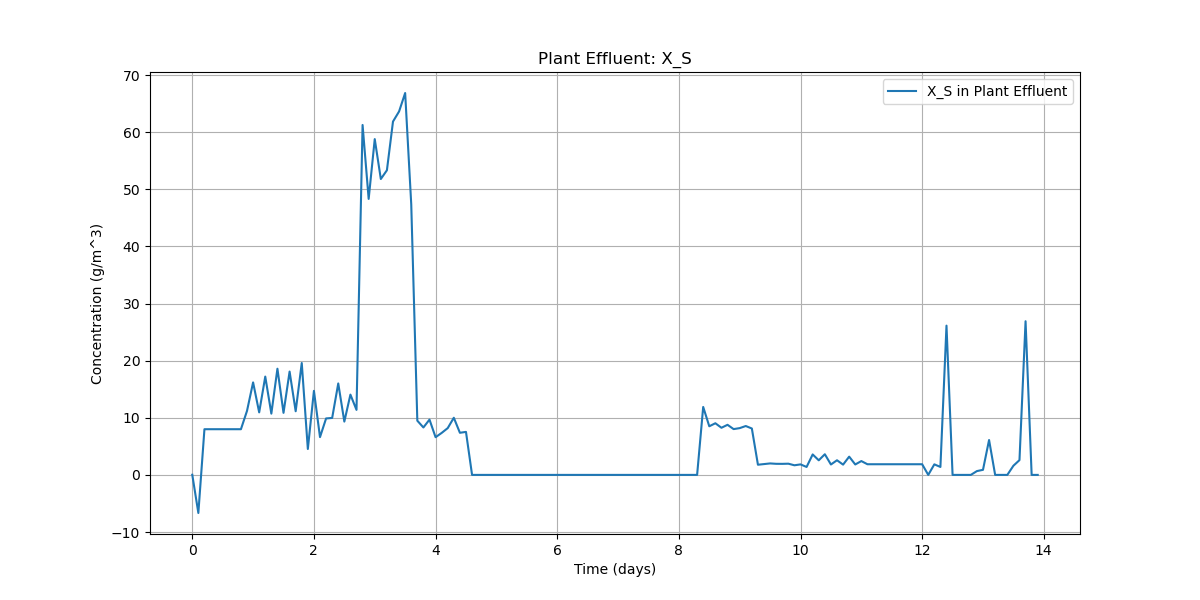
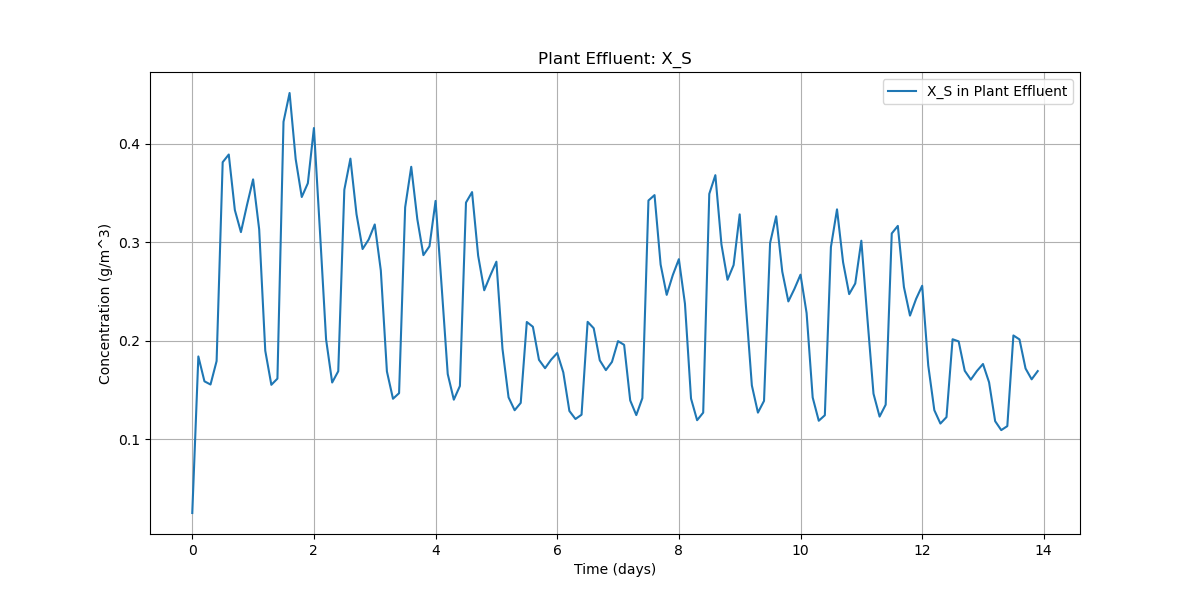
changed the solver to bdf to handle stiffness and fixed some bugs

diff --git a/clarifier_model.py b/clarifier_model.py
@@ -22,21 +22,23 @@ def vesilind_settling_velocity(X, settling_params):
     v_s = v0 * np.exp(-Kv * X_safe)
     return v_s
 
-def takacs_settling_velocity(X, settling_params):
-    """
-    Takács double-exponential with non-settleable fraction f_ns (BSM1, p.9).
-    Uses (X_eff = (1 - f_ns)*X) in the hindered/flocculant terms.
-    """
-    v0  = settling_params['v0']   # m/d  (Vesilind max term used in double exp)
-    v0p = settling_params['v0p']  # m/d  (additional max term)
-    r_h = settling_params['r_h']  # m^3/g (hindered)
-    r_p = settling_params['r_p']  # m^3/g (flocculant)
-    fns = settling_params['f_ns'] # dimensionless
+def takacs_settling_velocity(X, settling_params, X_in_total):
+    v0  = settling_params['v0']    # 474.0 (m/d)
+    v0p = settling_params['v0p']   # 250.0 (m/d)
+    r_h = settling_params['r_h']   # 5.76e-4 (m^3/g)
+    r_p = settling_params['r_p']   # 2.86e-3 (m^3/g)
+    fns = settling_params['f_ns']  # 0.00228 (-)
+    X_f = X_in_total   # <-- set this each call from your clarifier feed TSS
 
-    X = np.maximum(0.0, np.asarray(X, float)) # type: ignore
-    X_eff = (1.0 - fns) * X
-    # Commonly used form consistent with BSM1 data: vs(X) = v0 * exp(-r_h * X_eff) + v0p * exp(-r_p * X_eff)
-    return v0 * np.exp(-r_h * X_eff) + v0p * np.exp(-r_p * X_eff)
+    X    = np.maximum(0.0, np.asarray(X, float))
+    Xmin = fns * float(X_f)
+    Xs   = X - Xmin                  # X* in the docs
+
+    v = v0 * (np.exp(-r_h * Xs) - np.exp(-r_p * Xs))
+    v = np.minimum(v0p, v)           # cap at v0'
+    v_s = np.maximum(0.0, v)        # enforce non-negative
+    return v_s
+
 
 def takacs_clarifier_model(X_layers, X_in_total, Q_in, clarifier_params, settling_params):
     """
@@ -70,11 +72,11 @@ def takacs_clarifier_model(X_layers, X_in_total, Q_in, clarifier_params, settlin
 
     # --- States and settling velocities ---
     X = np.maximum(0.0, np.asarray(X_layers, dtype=float)) # type: ignore
-    model = settling_params.get('velocity_model', 'takacs').lower()
+    model = settling_params.get('velocity_model')
     if model == 'vesilind':
         vs = vesilind_settling_velocity(X, settling_params)
     else:
-        vs = takacs_settling_velocity(X, settling_params)
+        vs = takacs_settling_velocity(X, settling_params, X_in_total)
 
     # --- Gravitational flux at interfaces (j = 1..N_layers-1) ---
     # Interface j sits between upper layer (j-1) and lower layer (j).
@@ -85,14 +87,13 @@ def takacs_clarifier_model(X_layers, X_in_total, Q_in, clarifier_params, settlin
         upper, lower = j - 1, j
         if j <= feed_layer:
             # Clarification flux with threshold X_t (BSM1 definition)
-            J_down = vs[lower] * X[lower]
             if X[lower] <= X_t:
-                Jg[j] = J_down
+                Jg[j] = vs[upper] * X[upper]
             else:
-                Jg[j] = min(J_down, vs[upper] * X[upper])
+                Jg[j] = min(vs[lower] * X[lower], vs[upper] * X[upper])
         else:
             # Thickening: limiting settling flux (min supply/capacity)
-            Jg[j] = min(vs[upper] * X[upper], vs[lower] * X[lower])
+            Jg[j] = min(vs[lower] * X[lower], vs[upper] * X[upper])
 
     # --- Layer-wise mass balances (bulk advection + gravitational flux divergence) ---
     V_layer = A * h
@@ -107,8 +108,8 @@ def takacs_clarifier_model(X_layers, X_in_total, Q_in, clarifier_params, settlin
         # Upward bulk advection (clarification side)
         if i == 0:
             # Top layer: only inflow from below by upflow; outflow via J_clar (not v_up*X_top)
-            if N_layers > 1:
-                mass_in += A_vup * X[1]
+            mass_in += A_vup * X[i + 1]
+            mass_out += A_vup * X[i]
         elif i < feed_layer:
             # Clarification zone (interior): v_up*(X_{i+1} - X_i)
             mass_in  += A_vup * X[i + 1]

diff --git a/run_simulation.py b/run_simulation.py
@@ -10,6 +10,7 @@ os.makedirs('results', exist_ok=True)
 
 from bsm1_simulation import bsm1_plant_model, map_particulates_by_tss, particulate_cod_idx, soluble_idx
 from ASM1_Processes import calculate_process_rates
+from scipy.integrate import solve_ivp
 
 def get_bsm1_params():
     """
@@ -114,8 +115,8 @@ def get_clarifier_params():
 def get_settling_params():
     """Returns a dictionary of the Takács clarifier parameters."""
     return {
-        'velocity_model': 'vesilind', # 'takacs' or 'vesilind'
-        # 'velocity_model': 'takacs', # 'takacs' or 'vesilind'
+        # 'velocity_model': 'vesilind', # 'takacs' or 'vesilind'
+        'velocity_model': 'takacs', # 'takacs' or 'vesilind'
         'v0':  474.0,   # Max Vesilind settling velocity (m/day)
         'Kv':           5.76e-4, # hindered settling parameter rₕ (m^3/g)
         # Takács double-exponential extra parameters
@@ -212,12 +213,31 @@ if __name__ == '__main__':
     # solution = odeint(bsm1_plant_model, y0, t_span, 
     #                   args=(get_influent_data, stoich_params, Kin_params, clarifier_params, settling_params))
 
-    solution, info = odeint(
-        bsm1_plant_model, y0, t_span,
-        args=(get_influent_data, stoich_params, Kin_params, clarifier_params, settling_params),
-        rtol=1e-5, atol=1e-7, full_output=True
+    # solution, info = odeint(
+    #     bsm1_plant_model, y0, t_span,
+    #     args=(get_influent_data, stoich_params, Kin_params, clarifier_params, settling_params),
+    #     rtol=1e-5, atol=1e-7, full_output=True
+    # )
+    # print(info['message']); print('nfe:', info['nfe'], 'nje:', info['nje'], 'nst:', info['nst'])
+    
+    def rhs(t, y):
+        return bsm1_plant_model(y, t, get_influent_data, stoich_params, Kin_params, clarifier_params, settling_params)
+
+    sol = solve_ivp(
+        rhs,
+        t_span=(float(t_span[0]), float(t_span[-1])),
+        y0=y0,
+        t_eval=t_span,
+        method='BDF',              # or 'LSODA'
+        rtol=1e-5,
+        atol=1e-7,
+        max_step=0.05              # days (~72 min); keeps steps reasonable vs. 15 min KPIs
     )
-    print(info['message']); print('nfe:', info['nfe'], 'nje:', info['nje'], 'nst:', info['nst'])
+    if not sol.success:
+        print("Integrator reported:", sol.message)
+
+    solution = sol.y.T
+
 
     results_reactors  = solution[:, 0:65].reshape(len(t_span), 5, 13)
     # print("results_reactors.shape:", results_reactors.shape)

diff --git a/ASM1_Processes.py b/ASM1_Processes.py
@@ -81,6 +81,7 @@ def calculate_process_rates(state, Kin_params):
     # Process 8: Hydrolysis of entrapped organic nitrogen
     # This process is biochemically linked to Process 7. It breaks down particulate organic nitrogen (X_ND).
     # The rate is derived from the hydrolysis of organics.
-    rho_8 = rho_7 * (X_ND / X_S)
+    
+    rho_8 = k_h * (X_ND / (K_X * X_H + X_S)) * term_hydrolysis_switch * X_H 
 
     return [rho_1, rho_2, rho_3, rho_4, rho_5, rho_6, rho_7, rho_8]
